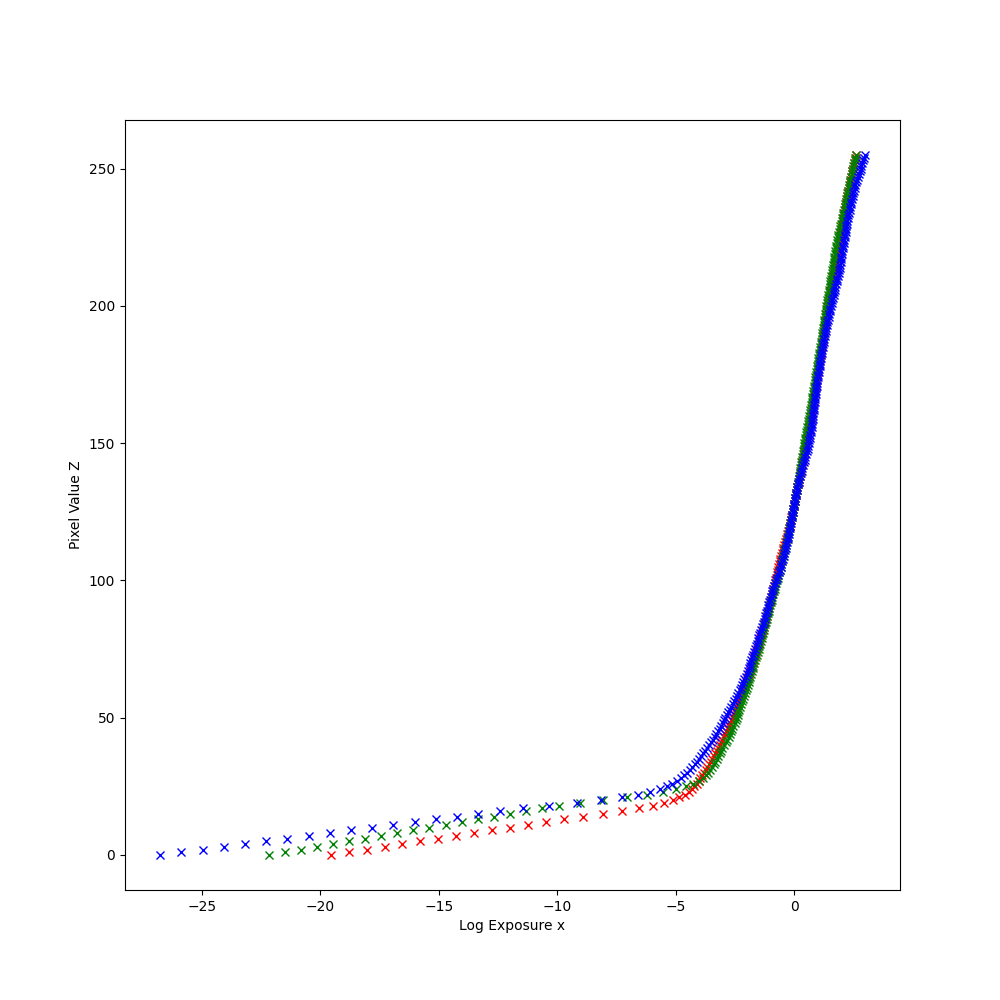
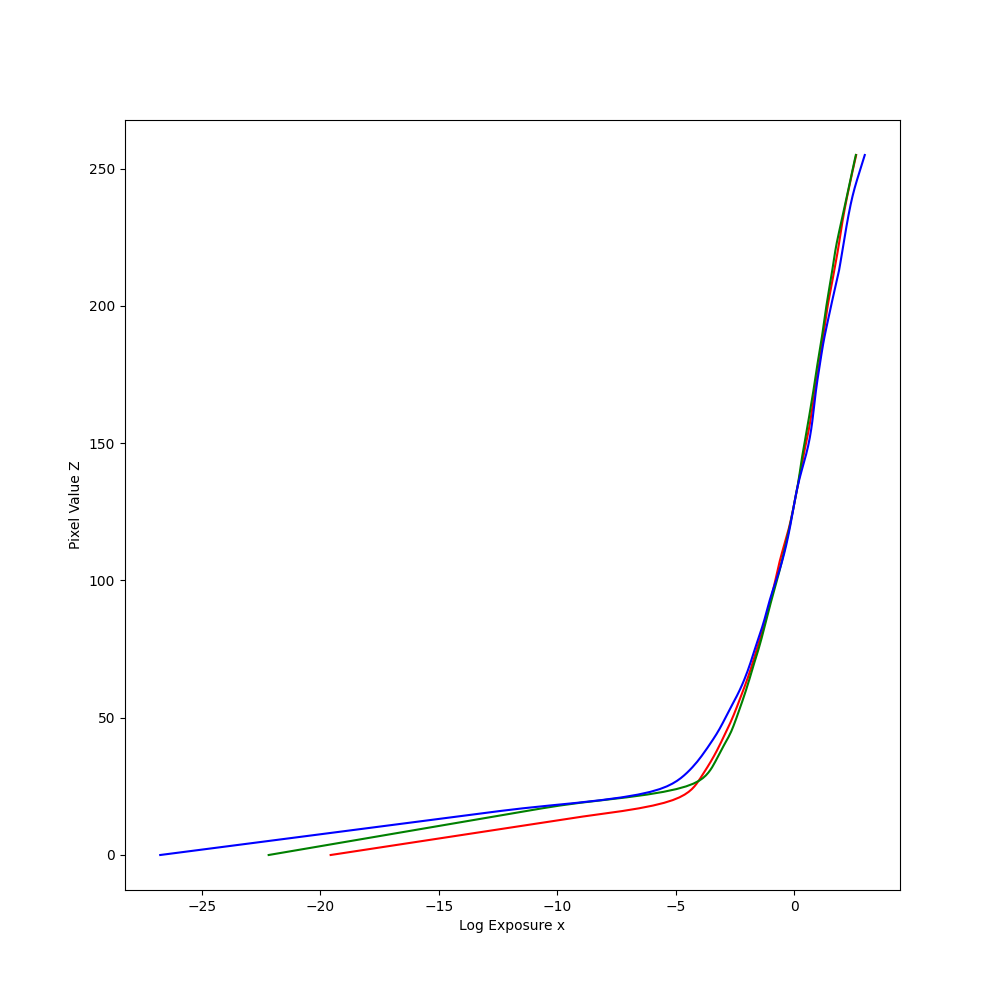
make code more concise

Changed region(s): [[0.155, 0.589, 0.775, 0.868], [0.775, 0.155, 0.868, 0.589]]

diff --git a/code/hdr_generator.py b/code/hdr_generator.py
@@ -43,69 +43,92 @@ def get_exposure(txt_path):
         # print(f"Exposure time list: {exposure_time_list}")
         return exposure_time_list
 
-def uniform_img_sampler(imgs_list, P, H, W, N, channel_num=0):
+def uniform_img_sampler(imgs_list, P, H, W, N, num_channels=0):
     ''' Samples image at specific channel
     '''
-    sample_row_num = np.linspace(0, H-1, num=N, dtype=int)    # which rows to sample from the original image (i)
-    sample_col_num = np.linspace(0, W-1, num=N, dtype=int)   # which columns to sample from the original image (j)
-    Z_sampled = np.zeros((P, N, N))   
+    sample_row_num = np.linspace(0, H-1, num=N, dtype=int)   # which rows to sample from the original image (i)
+    sample_col_num = np.linspace(0, W-1, num=N, dtype=int)   # which columns to sample from the original image (j) 
+    Z_samples = []
 
-    for img_idx, img in enumerate(imgs_list):
-        for Z_i, i in enumerate(sample_row_num):
-            for Z_j, j in enumerate(sample_col_num):
-                Z_sampled[img_idx][Z_i][Z_j] = img[i][j][channel_num]    
+    # Sampling
+    for channel_n in range(num_channels):
+        Z_sampled = np.zeros((P, N, N))
+        for img_idx, img in enumerate(imgs_list):
+            for Z_i, i in enumerate(sample_row_num):
+                for Z_j, j in enumerate(sample_col_num):
+                    Z_sampled[img_idx][Z_i][Z_j] = img[i][j][channel_n] 
+        Z_samples.append(Z_sampled)
 
     #print(f"Sample x-coords: {sample_col_num}\nSample y-coords: {sample_row_num}")
-    return Z_sampled
+    return Z_samples
 
-def get_response_func(Z, B, Lambda, w):
+def get_response_func(Z_samples, B, Lambda, w):
     '''
+    Solve Ax=b linear problem. Reference: MatLab code from lec03.pdf of lecture.
     Z: the pixel values of pixel location number i in image p; shape = P x N*N
     B: the log base 2 of exposure time
     Lambda: Lambda
     w: weighting
     '''
-    #Z = Z.flatten()  # flatten the sample array, this will have size P*N*N
     n = 256
-    Z = Z.reshape(Z.shape[0], Z.shape[1] * Z.shape[2]) # shape: P x N*N
-    Z_num_rows = np.size(Z, 0)
-    Z_num_cols = np.size(Z, 1)
-    A = np.zeros((Z_num_rows * Z_num_cols + n + 1, n + Z_num_cols), dtype=np.float32)
-    
-    A_num_rows = np.size(A, 0)
-    b = np.zeros((A_num_rows, 1), dtype=np.float32)
+    g_funcs = []
+    lsq_errors = []
+    for Z in Z_samples:
+        # Make matrix A
+        Z = Z.reshape(Z.shape[0], Z.shape[1] * Z.shape[2]) # shape: P x N*N
+        Z_num_rows = np.size(Z, 0)
+        Z_num_cols = np.size(Z, 1)
+        A = np.zeros((Z_num_rows * Z_num_cols + n + 1, n + Z_num_cols), dtype=np.float32)
+        
+        # Make matric b
+        A_num_rows = np.size(A, 0)
+        b = np.zeros((A_num_rows, 1), dtype=np.float32)
 
-    
-    # Include the data-fitting equations
-    k = 0
-    for i in range(Z_num_rows):
-        for j in range(Z_num_cols):
-            z = int(Z[i][j])
-            wij = w[z]
-            A[k][z] = wij
-            A[k][n+j] = -wij
-            b[k] = wij * B[i]
-            k += 1
-    # Fix the curve by setting the middle value to 0
-    A[k][128] = 1
-    k += 1
-
-    # Include the smoothness equations
-    for i in range(n-1):
-        A[k][i] = Lambda * w[i+1]
-        A[k][i+1] = -2 * Lambda * w[i+1]
-        A[k][i+2] = Lambda * w[i+1]
+        
+        # Include the data-fitting equations
+        k = 0
+        for i in range(Z_num_rows):
+            for j in range(Z_num_cols):
+                z = int(Z[i][j])
+                wij = w[z]
+                A[k][z] = wij
+                A[k][n+j] = -wij
+                b[k] = wij * B[i]
+                k += 1
+        # Fix the curve by setting the middle value to 0
+        A[k][128] = 1
         k += 1
-    # Solve the system using SVD
-    x = np.linalg.lstsq(A, b, rcond=None)[0]
-    g = x[:n]
-    lE = x[n:]
 
-    return g, lE
+        # Include the smoothness equations
+        for i in range(n-1):
+            A[k][i] = Lambda * w[i+1]
+            A[k][i+1] = -2 * Lambda * w[i+1]
+            A[k][i+2] = Lambda * w[i+1]
+            k += 1
+        # Solve the system using SVD
+        x = np.linalg.lstsq(A, b, rcond=None)[0]
+        g = x[:n]
+        lE = x[n:]
+
+        # Record the results
+        g_funcs.append(g)
+        lsq_errors.append(lE)
+
+    return g_funcs, lsq_errors
 
 
 
-def hdr_gen_debevec(imgs_list, exp_time_list, P, N=20):
+def plot_response_curve(g_funcs):
+    plt.figure(figsize=(10,10))
+    g_func_r, g_func_g, g_func_b = g_funcs
+    plt.plot(g_func_r, range(256), 'red')
+    plt.plot(g_func_g, range(256), 'green')
+    plt.plot(g_func_b, range(256), 'blue')
+    plt.ylabel("Pixel Value Z")
+    plt.xlabel("Log Exposure x")
+    plt.savefig("testcurve.png")
+
+def get_hdr_debevec(imgs_list, exp_time_list, P, N=20):
     '''
     1. Sample from each channel of each images
     2. Find function g() of each channel
@@ -132,29 +155,15 @@ def hdr_gen_debevec(imgs_list, exp_time_list, P, N=20):
             weight.append(Zmax - z)
     
     # Sample pixel points from images
-    # Todo: Check if PIL is in fact read as RGB
-    Z_sampled_R = uniform_img_sampler(imgs_list, P, H, W, N, channel_num=0)  # shape: P x N x N
-    Z_sampled_G = uniform_img_sampler(imgs_list, P, H, W, N, channel_num=1)
-    Z_sampled_B = uniform_img_sampler(imgs_list, P, H, W, N, channel_num=2)
-
+    Z_samples = uniform_img_sampler(imgs_list, P, H, W, N, num_channels=3)  # list of length num_channels, of items shape: P x N x N
 
     # Solve Ax=b (try single channel)
-    g_R, lE_R = get_response_func(Z_sampled_R, B, Lambda, weight)
-    g_G, lE_G = get_response_func(Z_sampled_G, B, Lambda, weight)
-    g_B, lE_B = get_response_func(Z_sampled_B, B, Lambda, weight)
-    
-    # Plot g Curves
-    plt.figure(figsize=(10,10))
-    plt.plot(g_R, range(256), 'rx')
-    plt.plot(g_G, range(256), 'gx')
-    plt.plot(g_B, range(256), 'bx')
-    plt.ylabel("Pixel Value Z")
-    plt.xlabel("Log Exposure x")
-    plt.savefig("testcurve.png")
+    g_funcs, lsq_errors = get_response_func(Z_samples, B, Lambda, weight)
 
+    # Plot g Curves
+    plot_response_curve(g_funcs)
 
     return 0
-
 
 
 
@@ -172,7 +181,7 @@ def main(args):
     N    = 20                                # number of sample point pixels per image
     exps = get_exposure(memorial_txt_path)   # list of exposure times for all images
     P    = len(exps)                         # number of images
-    hdr_images = hdr_gen_debevec(imgs, exps, P, N)
+    hdr_images = get_hdr_debevec(imgs, exps, P, N)
 
         
     return
